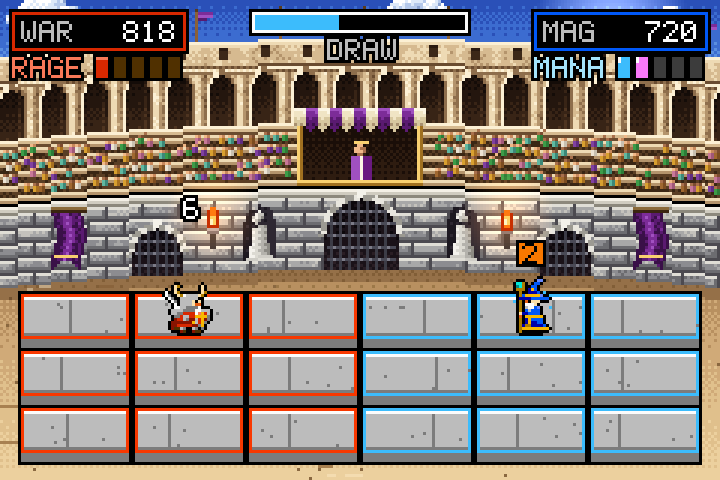
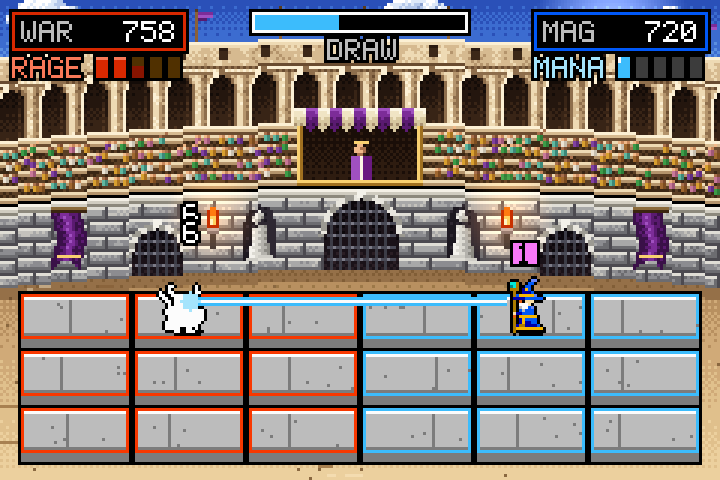
Chain Hook costs 1 Rage
CPU sims vs Mage: starter Warrior ~40%, 2-Banner deck ~48%.

Claude-Session: https://claude.ai/code/session_014GekZgA1f4aZACHcxkyXyg

diff --git a/src/game/cards.ts b/src/game/cards.ts
@@ -123,7 +123,7 @@ const warrior: CardDef[] = [
     ai: (b, f) => ahead(b, f, 2),
   },
   {
-    id: 'chain_hook', name: 'Chain Hook', cls: 'warrior', cost: 0, rarity: 'common', element: 'steel', damaging: true, lock: 0.35,
+    id: 'chain_hook', name: 'Chain Hook', cls: 'warrior', cost: 1, rarity: 'common', element: 'steel', damaging: true, lock: 0.35,
     dmg: '20', short: 'Chain down your row. On hit: pull them to their front column, stun 1s, gain 1 Rage.',
     cast: x => {
       x.b.shoot(x.f, {
